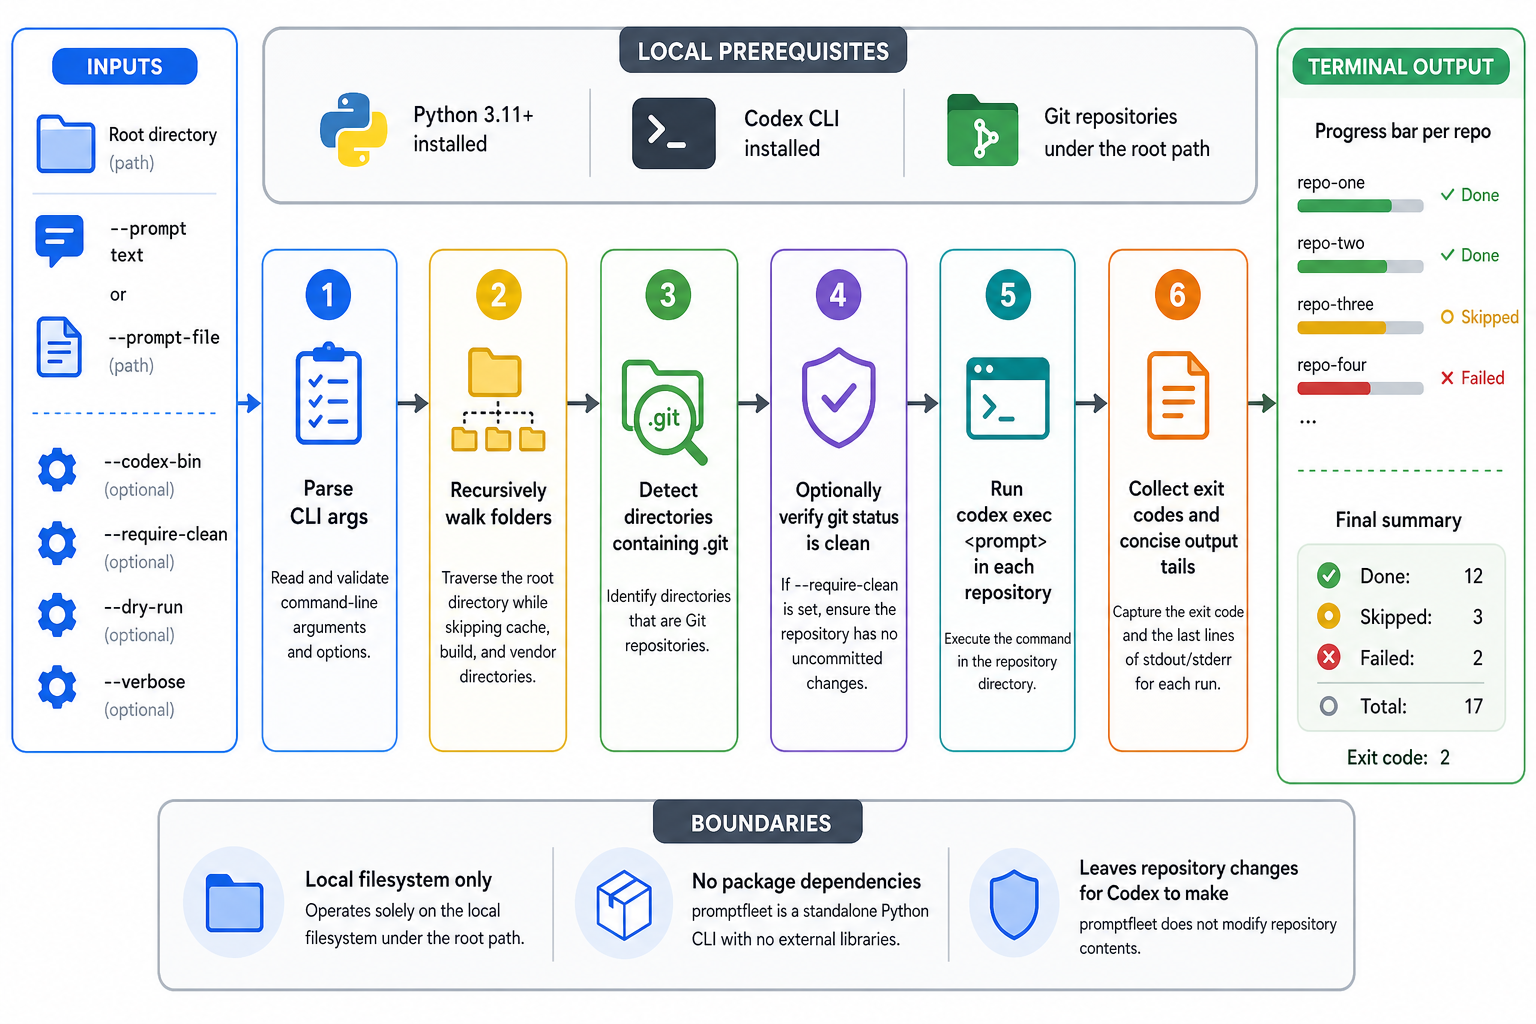
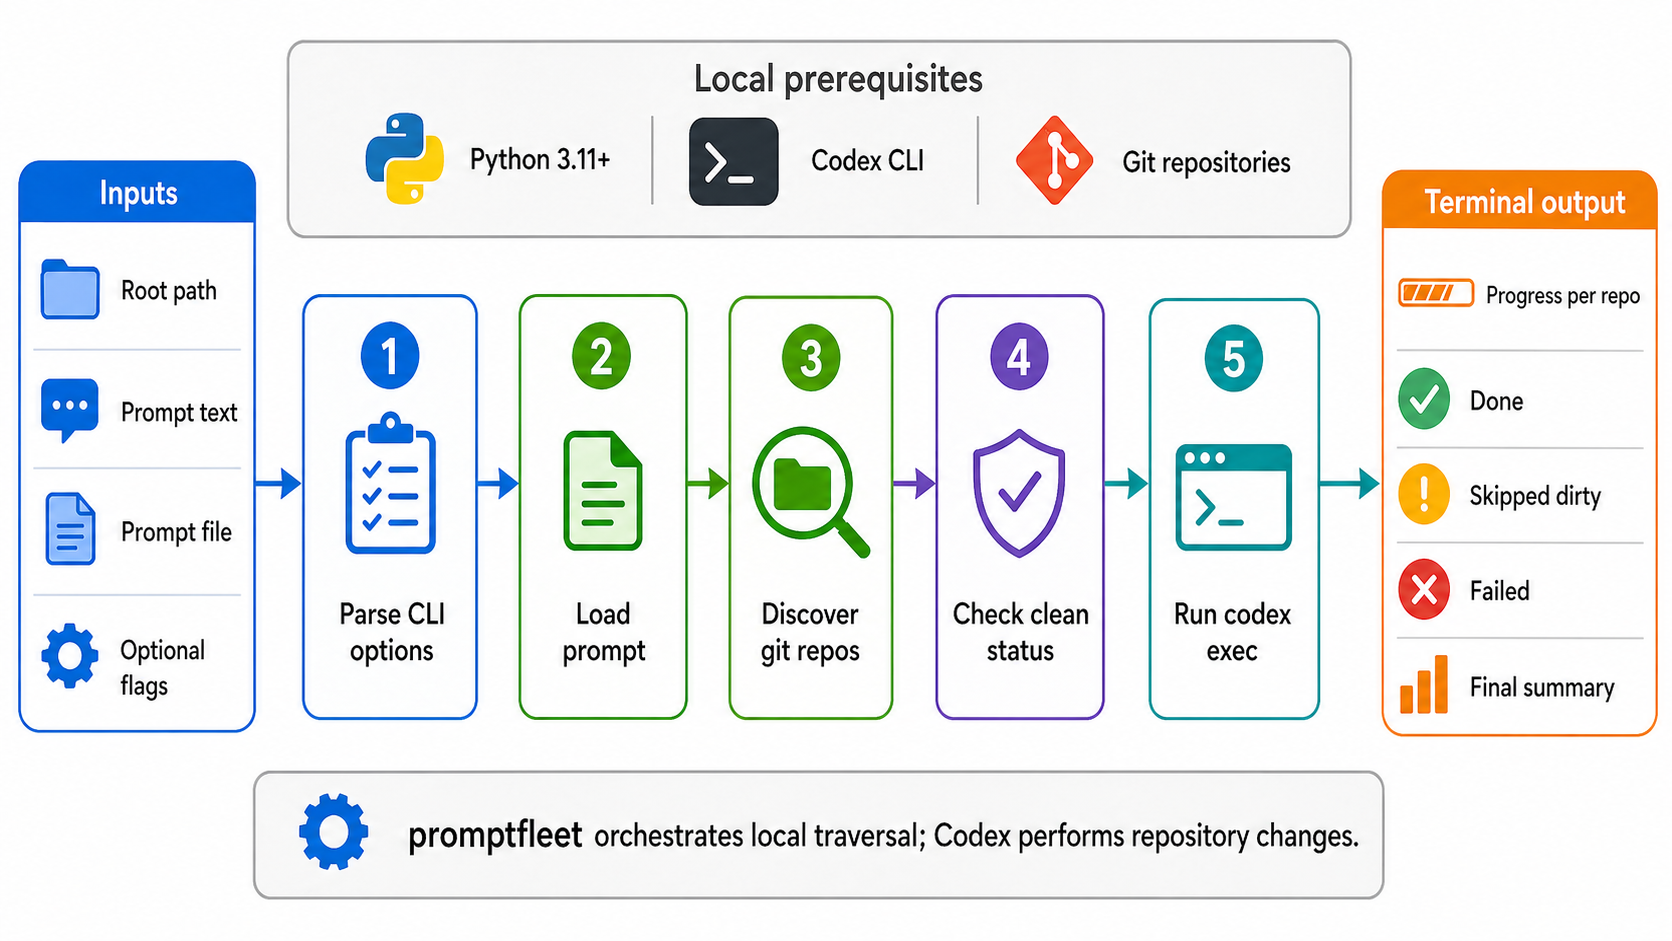
Center README branding and refresh architecture diagram

Changed region(s): [[0.0, 0.0, 1.0, 0.9862]]

diff --git a/README.md b/README.md
@@ -1,4 +1,8 @@
-# promptfleet
+<div align="center">
+  <img src="./logo.png" alt="promptfleet" width="420" />
+
+  **🚀 Run one Codex prompt across every local repo 🚀**
+</div>
 
 promptfleet is a small Python CLI for running one Codex prompt across every git repository under a root directory.
 
